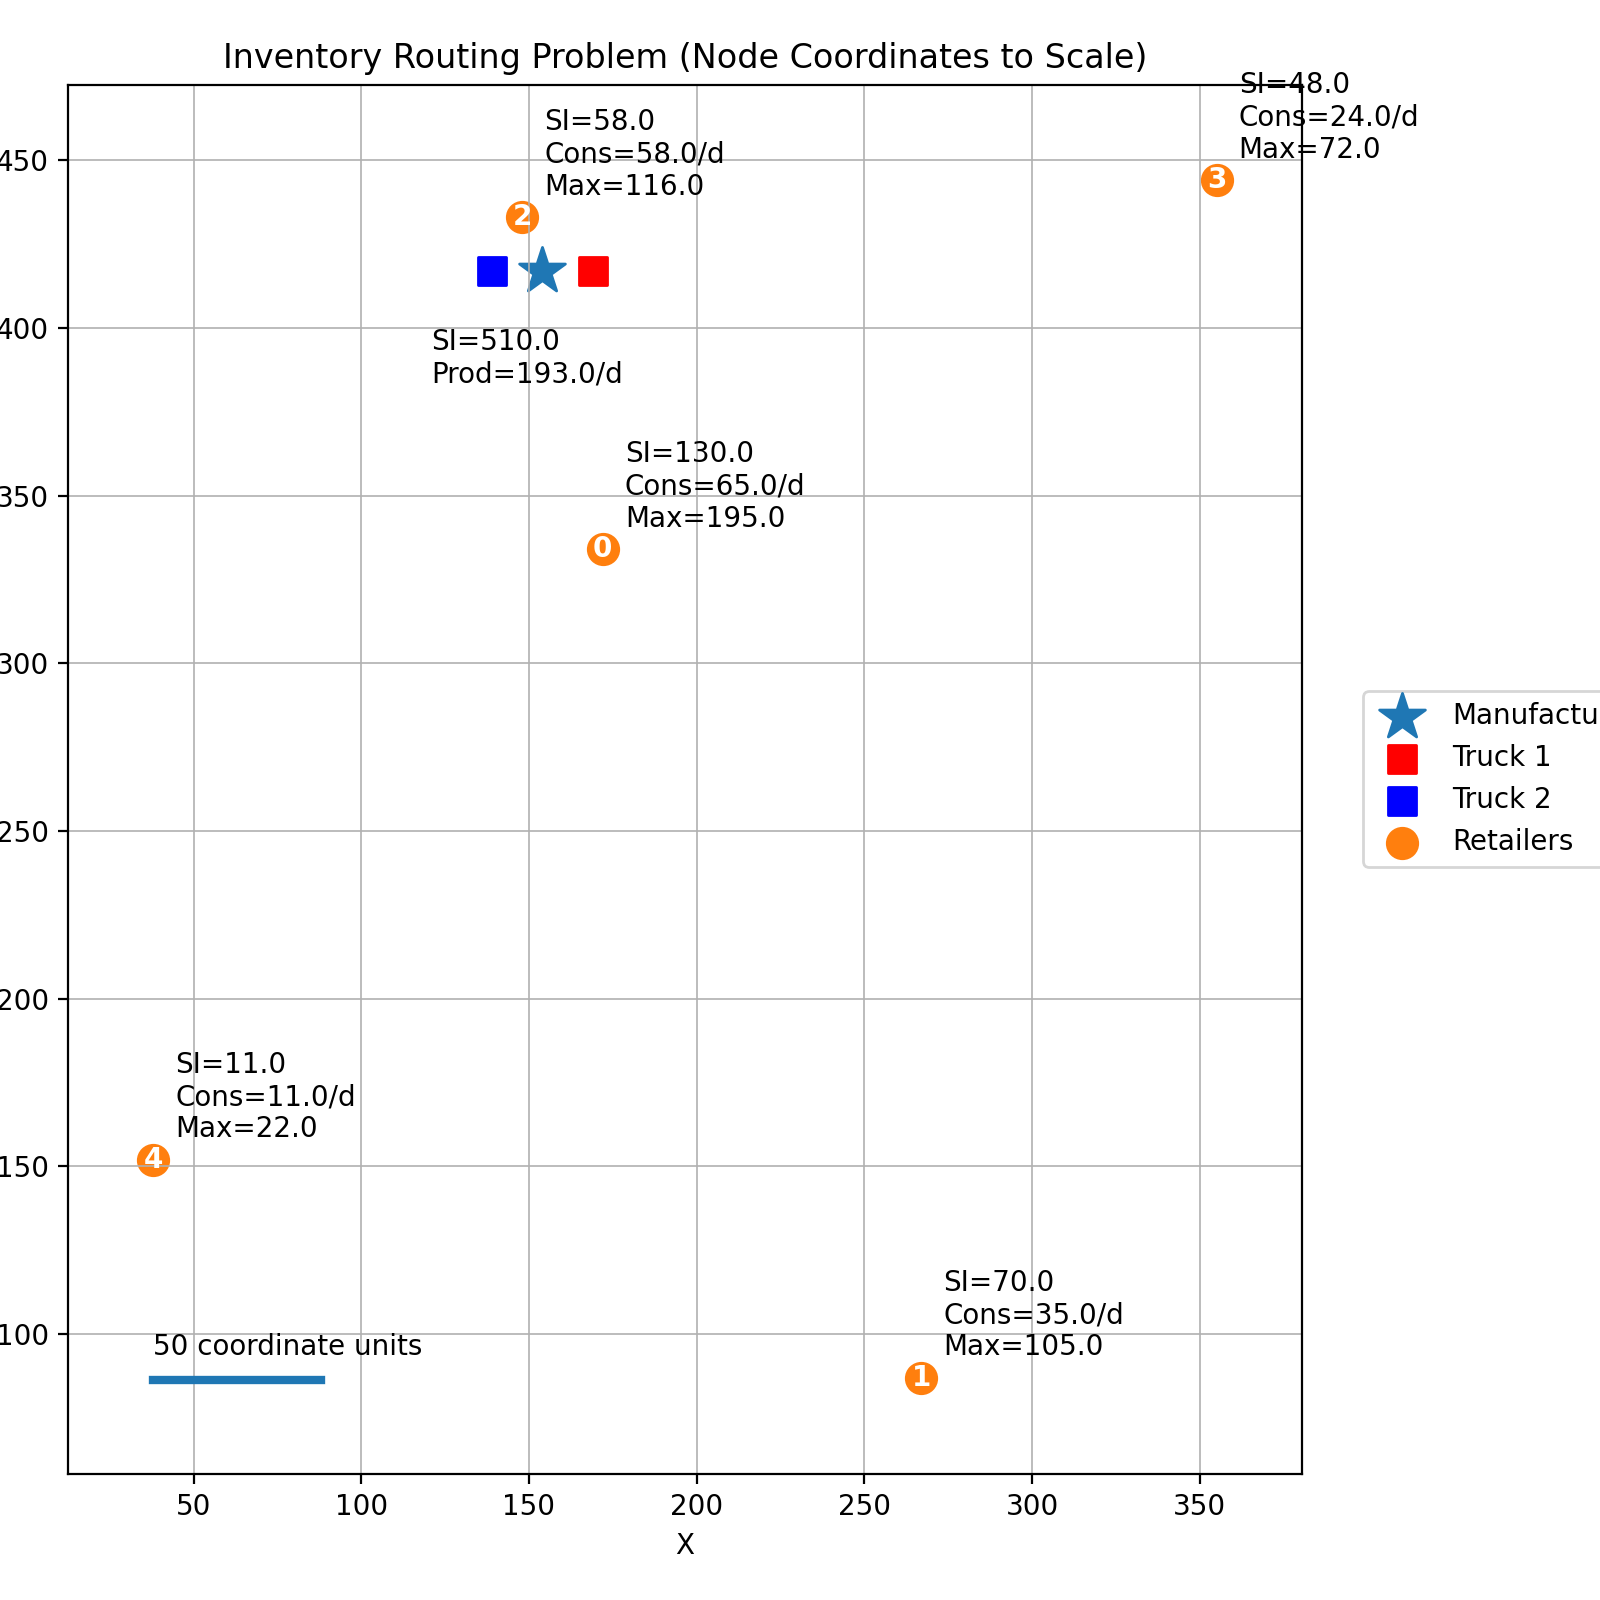
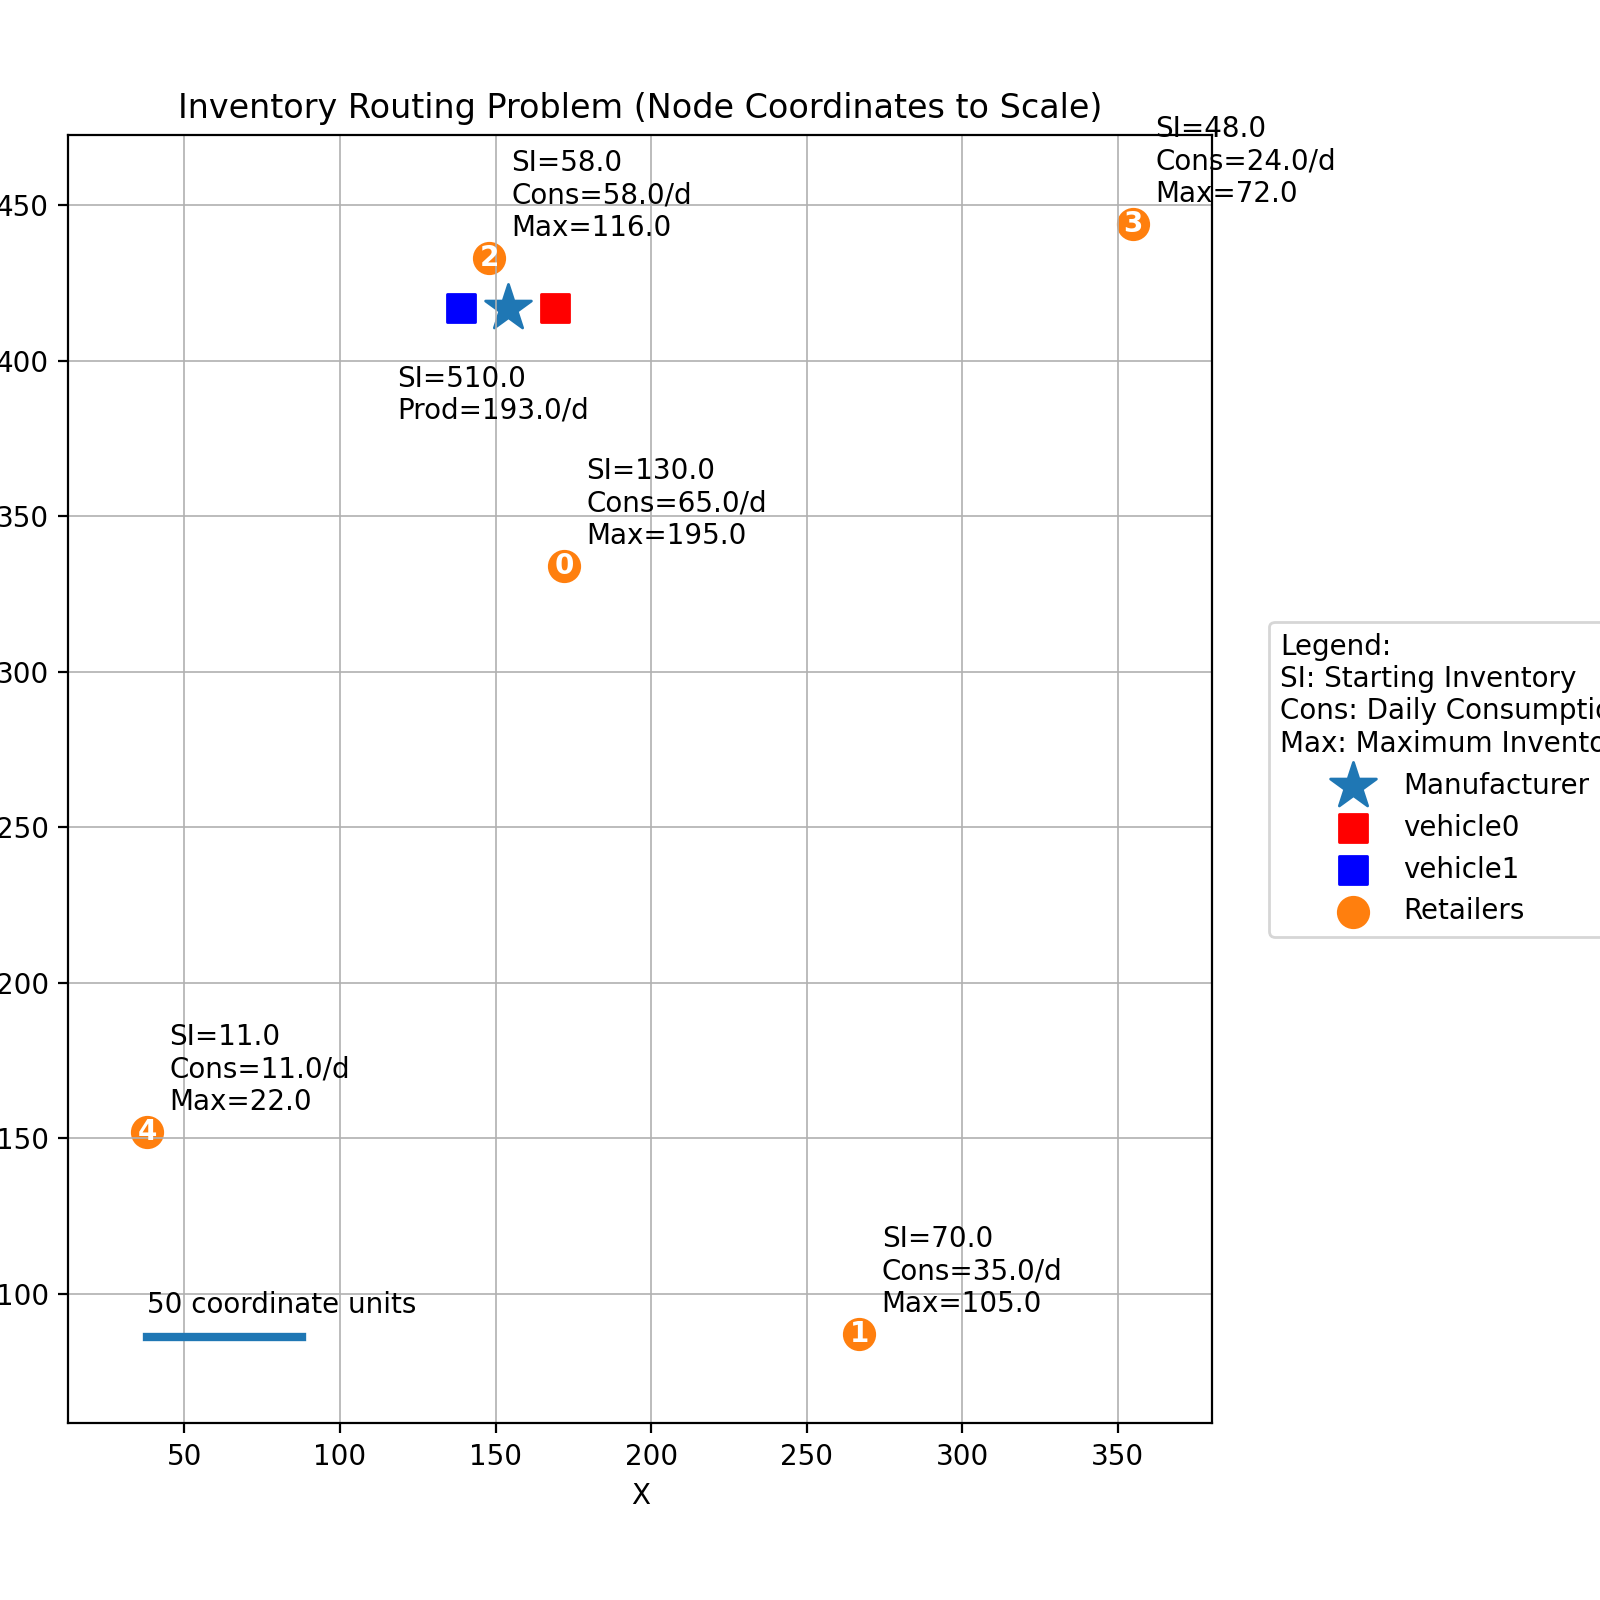
Enhance documentation with additional guides, ISO phrasing refinements, and DEVS Streaming Framework references. Update collaborative simulation and Kafka setup details for improved clarity.

diff --git a/docs/architecture/irp-definition.md b/docs/architecture/irp-definition.md
@@ -4,27 +4,27 @@ The Inventory Routing Problem (IRP) in this simulation is a coordinated supply c
 
 ![Inventory Routing to Scale](inventory_routing_to_scale.png){width=50%}
 
-*The figure above shows a typical IRP scenario with one manufacturer (Node 0), five retailers (Nodes 1-5), and two vehicles. Each node is labeled with its starting inventory (SI), daily consumption or production rate (Cons/Prod), and maximum inventory capacity (Max).*
+*The figure above shows a typical IRP scenario with one manufacturer, five retailers (Nodes 0-4), and two vehicles. Each node is labeled with its starting inventory (SI), daily consumption or production rate (Cons/Prod), and maximum inventory capacity (Max).*
 
 ## Core Rules and Element Behaviors
 
 The simulation is governed by specific rules for each of the three primary elements: the Manufacturer, the Retailers, and the Vehicles.
 
-### 1. The Manufacturer (Node 0)
+### 1. The Manufacturer
 The manufacturer is the source of all products in the system and acts as the central coordinator for deliveries.
 
-*   **Production**: The manufacturer produces a fixed amount of product every day (`dailyProduction`). This inventory is added to its current stock at a specific time (e.g., at the end of the day or early morning).
+*   **Production**: The manufacturer produces a fixed amount of product every day (`dailyProduction`). This inventory is added to its current stock at 11:59 PM daily.
 *   **Inventory Holding**: Like retailers, the manufacturer incurs a daily cost for holding inventory. The goal is to keep this inventory as low as possible by shipping products out.
-*   **Scheduling**: The manufacturer receives a predefined delivery schedule and is responsible for "loading" vehicles at the start of each day. It subtracts the total amount loaded from its current inventory and posts the routes to the respective vehicles.
+*   **Scheduling**: The manufacturer receives a predefined delivery schedule and is responsible for "loading" vehicles at 6:00 AM daily. It subtracts the total amount loaded from its current inventory and posts the routes to the respective vehicles.
 *   **Returns**: If a vehicle returns to the manufacturer with undelivered products (e.g., due to time constraints or capacity issues), the manufacturer accepts these returns and adds them back to its inventory.
 
-### 2. Retailers (Nodes 1-5)
+### 2. Retailers (Nodes 0-4)
 Retailers are the end points of the supply chain, each with its own consumption pattern and storage limits.
 
-*   **Consumption**: Each retailer consumes a fixed amount of product daily (`dailyConsumption`). This consumption reduces the retailer's inventory level at a set time each day.
-*   **Inventory Capacity**: Every retailer has a `maxInventory` limit. If a delivery exceeds this capacity, the retailer only accepts enough to fill its storage, and the remainder is returned with the vehicle.
+*   **Consumption**: Each retailer consumes a fixed amount of product daily (`dailyConsumption`). This consumption reduces the retailer's inventory level at 4:00 PM closing time each day.
+*   **Inventory Capacity**: Every retailer has a `maxInventory` limit. If a delivery exceeds this capacity, this will be recorded in the system output.
 *   **Safety Stock**: Retailers also have a `minInventory` target. While the simulation continues even if inventory drops below this level, it is considered a performance failure and may be logged as an error or reflected in higher costs.
-*   **Cost Reporting**: Retailers report their daily holding costs based on their current inventory level and a site-specific unit cost.
+*   **Cost Reporting**: Retailers report their daily holding costs daily at closing time based on their current inventory level and a site-specific unit cost.
 
 ### 3. Vehicles
 Vehicles are the mobile agents that bridge the gap between the manufacturer and the retailers.

diff --git a/docs/architecture/devs-framework.md b/docs/architecture/devs-framework.md
@@ -1,6 +1,6 @@
 # DEVS Framework
 
-The Inventory Routing Problem (IRP) simulation is built using a custom implementation of the **Discrete Event System Specification (DEVS)** and its parallel version, **Parallel DEVS (PDevs)**. This framework provides a mathematically rigorous way to define how models transition between states and communicate via discrete events.
+The Inventory Routing Problem (IRP) simulation is built on top of the **[DEVS Streaming Framework](https://github.com/simlytics-cloud/devs-streaming)**, a robust implementation of the **Discrete Event System Specification (DEVS)** and its parallel version, **Parallel DEVS (PDevs)**. This framework provides a mathematically rigorous way to define how models transition between states and communicate via discrete events.
 
 ## DEVS/PDevs Implementation
 
@@ -13,11 +13,22 @@ Each model in the simulation transitions through several functions:
 - **Output Function**: Generates output events before an internal transition takes place.
 - **Time Advance Function**: Determines the time interval until the next internal event.
 
+The DEVS models implemented in this project use a specialized [ScheduleDevsModel](https://github.com/simlytics-cloud/devs-streaming/blob/main/src/main/java/devs/ScheduledDevsModel.java) that has an internal event schedule and current time in its state.
+
 ## Simulation Execution via Pekko Actors
 
 The simulation's engine is built using **Apache Pekko**, an actor-based concurrency framework. Each DEVS model is wrapped by a simulator actor, and coupled models are managed by coordinator actors. This design ensures that simulation time remains synchronized across all models, even when they are executing on different threads or distributed across a network.
 
 The simulator actors follow a well-defined lifecycle, receiving and processing messages like `SimulationInit`, `CollectOutputs`, and `InternalTransition`. This lifecycle ensures that the simulation proceeds in discrete steps, maintaining the logical order of events.
+
+## Core Framework Features
+
+The DEVS Streaming Framework provides the foundational infrastructure for the IRP simulation:
+
+- **Core DEVS Engine**: Implements the simulators and coordinators required for Parallel DEVS, ensuring synchronization and correct event ordering.
+- **Port-Based Communication**: Facilitates decoupled model design where components communicate via standardized ports rather than direct references.
+- **Streaming and Distribution**: Built-in support for Apache Kafka, allowing simulation events to be streamed across distributed systems via the emerging ISO 21175 [collaborative simulation](./collaborative-simulation.md) standard
+- **Proxy Mechanisms**: Includes `KafkaLocalProxy` and `KafkaDevsStreamProxyProvider`, which  bridge local simulators with remote components running on different hosts.
 
 ## Port-Based Communication
 

diff --git a/docs/architecture/collaborative-simulation.md b/docs/architecture/collaborative-simulation.md
@@ -1,6 +1,6 @@
 # Collaborative Simulation
 
-The Inventory Routing Problem (IRP) library is a reference implementation of a **Collaborative Modeling and Simulation (C&S)** environment, as described in the **ISO 21175** draft standard. This standard provides a framework for integrating diverse, distributed simulation models into a unified execution environment.
+The Inventory Routing Problem (IRP) library is a reference implementation of a **Collaborative Modeling and Simulation Environment (CMSE)**, as described in the **ISO 21175** draft standard. This standard provides a framework for integrating diverse, distributed simulation models into a unified execution environment.
 
 ## Distributed Simulation Architecture
 
@@ -27,9 +27,9 @@ This mechanism ensures that the simulation logic remains consistent, regardless 
 ## ISO 21175 Compliance
 
 The project aligns with the core principles of the ISO 21175 standard:
-- **Standardized Interfaces**: Using the DEVS formalism to ensure rigorous and interoperable communication between models.
+- **Standardized Interfaces**: Using the DEVS formalism to ensure interoperable communication between models.
 - **Middleware Interoperability**: Demonstrating how messaging systems like Kafka can facilitate simulation synchronization.
 - **Configuration-Driven Composition**: Allowing for "Plug-and-Play" simulation where models can be swapped between local and remote hosts through simple JSON configuration updates.
 - **Verification and Validation**: Providing a framework to test models in isolation and as part of a distributed system.
 
-By following this standard, the IRP library provides a robust foundation for building large-scale, collaborative simulations where different organizations can contribute their specialized models to a unified supply chain simulation federation.
+By following this standard, the IRP library provides a robust foundation for building collaborative simulations where different organizations can contribute their specialized models to a unified supply chain simulation federation.

diff --git a/docs/index.md b/docs/index.md
@@ -1,6 +1,6 @@
 # Inventory Routing Problem Simulation Wiki
 
-Welcome to the documentation for the Inventory Routing Problem (IRP) simulation. This project provides a full-running implementation of a collaborative supply chain simulation based on the **ISO 21175** draft standard for Collaborative Modeling and Simulation (C&S).
+Welcome to the documentation for the Inventory Routing Problem (IRP) simulation. This project provides a full-running implementation of a collaborative supply chain simulation based on the **ISO 21175** draft standard for Collaborative Modeling and Simulation Environment (CMSE).
 
 The library is designed not only as a complete simulation app but also as a framework for collaborators to build and test their own remote instances of supply chain components like Vehicles, Retailers, or Manufacturers.
 
@@ -9,7 +9,7 @@ The library is designed not only as a complete simulation app but also as a fram
 - **[Architecture Overview](architecture/overview.md)**: A high-level view of the system design and the goals of the Inventory Routing Problem.
 - **[IRP Definition](architecture/irp-definition.md)**: A complete definition of the Inventory Routing Problem, including the rules for the manufacturer, retailers, and vehicles.
 - **[DEVS Framework](architecture/devs-framework.md)**: Detailed explanation of the underlying Parallel DEVS (PDevs) implementation.
-- **[Collaborative Simulation](architecture/collaborative-simulation.md)**: How the system uses Apache Kafka to enable distributed, multi-participant simulations in compliance with ISO 21175.
+- **[Collaborative Simulation](architecture/collaborative-simulation.md)**: How the system uses Apache Kafka to enable distributed, multi-participant simulations in compliance with emerging ISO 21175 standard.
 - **Models**: Detailed logic for the core simulation components:
     - **[Manufacturer](models/manufacturer.md)**
     - **[Retailer](models/retailer.md)**

diff --git a/docs/guides/remote-collaboration.md b/docs/guides/remote-collaboration.md
@@ -67,5 +67,19 @@ To run these tests:
 1.  **Start Kafka**: Use the provided Docker Compose configuration to start a local Kafka cluster and management UI. For detailed instructions, see the [Local Kafka Setup Guide](../../kafka/running-local-kafka.md).
 2.  **Enable the Test**: These tests are marked with `@Disabled("Requires Kafka Connection")` by default. Remove the `@Disabled` annotation to enable them.
 3.  **Execute the Test**: Run the specific test method using your IDE or Maven.
+4. To test again, you will need to recreate the Kafka topic before running another test.  The topic should be empty at the start.
 
-The test will attempt to connect to Kafka, subscribe to the simulation topic, and verify that messages are correctly passed between the local simulator and the (simulated) remote proxy. This confirms that your model's network interface and DEVS logic are compatible with the collaborative environment.
+The test will attempt to connect to Kafka, subscribe to the simulation topic, and verify that messages are correctly passed between the local simulator and the (simulated) remote proxy. This confirms that your model's network interface and DEVS logic are compatible with the collaborative environment.  For debugging, you can use the kafka-ui interface to view messages in the order they were posted to a topic.  To see a full set of messages, start Kafka and run a full simulation configured with the local proxies configuration uncommented in [reference.conf](../../impl/src/main/resources/reference.conf) as follows:
+
+```aiignore
+irp-routing-app {
+  # JSON data structure for the IRP System definition
+  irp-data-file = "S_abs1n5_2_L3_local_proxies.json"
+  # irp-data-file = "S_abs1n5_2_L3.json"
+  # irp-data-file = "S_abs1n5_2_L3_all_local.json"
+
+  # The name of the local system for determining which models to run locally
+  local-system-name = "LocalJava"
+  local-proxy-name = "RemoteRunnersJava"
+}
+```

diff --git a/docs/architecture/overview.md b/docs/architecture/overview.md
@@ -16,6 +16,6 @@ A transducer aggregates all cost reports from the manufacturer, retailers, and v
 
 ## High-Level System Design
 
-The system is built on top of a custom DEVS framework implemented using Apache Pekko for actor-based simulation. This architecture allows the simulation to be highly modular and extensible. Components can be easily swapped or extended to explore different inventory management and routing algorithms.
+The system is built on top of the **[DEVS Streaming Framework](devs-framework.md)**, which provides a robust implementation of the DEVS and Parallel DEVS (PDevs) formalisms. By utilizing **Apache Pekko** for actor-based simulation, the architecture achieves high modularity, extensibility, and scalability.
 
-The architecture is also designed for distribution. Using Kafka as a messaging middleware, components can run on different host systems while maintaining a unified simulation clock and event-passing mechanism. This satisfies the requirements for collaborative modeling as defined in the ISO 21175 draft standard.
+This design allows simulation components like manufacturers, retailers, and vehicles to be easily swapped or extended. Furthermore, the framework's integration with **Apache Kafka** enables distributed and collaborative modeling, allowing different participants to contribute models that run on separate host systems while maintaining a unified simulation clock.

diff --git a/docs/guides/getting-started.md b/docs/guides/getting-started.md
@@ -2,6 +2,24 @@
 
 This guide provides the basic instructions for building, running, and testing the Inventory Routing Problem (IRP) simulation. Whether you are running a simple local simulation or setting up a distributed collaborative environment, these steps will help you get started.
 
+## Prerequisites
+
+Before building the Inventory Routing Problem simulation, you must first install the **DEVS Streaming Framework**. This is a core dependency that provides the underlying DEVS/PDevs engine, Pekko actor support, and Kafka proxy mechanisms.
+
+### Installing the DEVS Streaming Framework
+
+1.  **Clone the repository**:
+    ```bash
+    git clone https://github.com/simlytics-cloud/devs-streaming.git
+    ```
+2.  **Install to your local Maven repository**:
+    Navigate to the `devs-streaming` directory and run:
+    ```bash
+    mvn clean install
+    ```
+
+Once the framework is installed locally, you can proceed to build the IRP simulation.
+
 ## Building the Project
 
 The project is built using Maven and Java. To compile all source files and generate the required DEVS models, run the following command from the root directory:

diff --git a/README.md b/README.md
@@ -1,6 +1,6 @@
 # Inventory Routing Problem (IRP) Simulation
 
-This project provides a comprehensive, discrete-event simulation of the **Inventory Routing Problem (IRP)**. It is built using a custom Parallel DEVS (PDevs) framework on top of Apache Pekko and is designed to support **Collaborative Modeling and Simulation (C&S)** in alignment with the **ISO 21175** draft standard.
+This project provides a comprehensive, discrete-event simulation of the **Inventory Routing Problem (IRP)**. It is built using the **[DEVS Streaming Framework](https://github.com/simlytics-cloud/devs-streaming)**, which implements the mathematically rigorous Parallel DEVS (PDevs) formalism on top of Apache Pekko. The simulation is designed to support **Collaborative Modeling and Simulation (C&S)** in alignment with the **ISO 21175** draft standard.
 
 ## Overview
 

diff --git a/kafka/running-local-kafka.md b/kafka/running-local-kafka.md
@@ -32,6 +32,7 @@ While the simulation is configured to auto-create topics, it is often useful to 
 2.  In the sidebar, click on **Topics**.
 3.  Click the **Add a Topic** button in the top right.
 4.  Enter the topic name (e.g., `irp-system`, as used in the default configurations).
+5.  **CRITICAL** Set Nuber of Partitions to 1 and Number of Replicas to 1.  This is necessary for the simulation to work properly.
 5.  Click **Create** at the bottom of the form.
 
 ## Viewing Messages from an IRP Run
